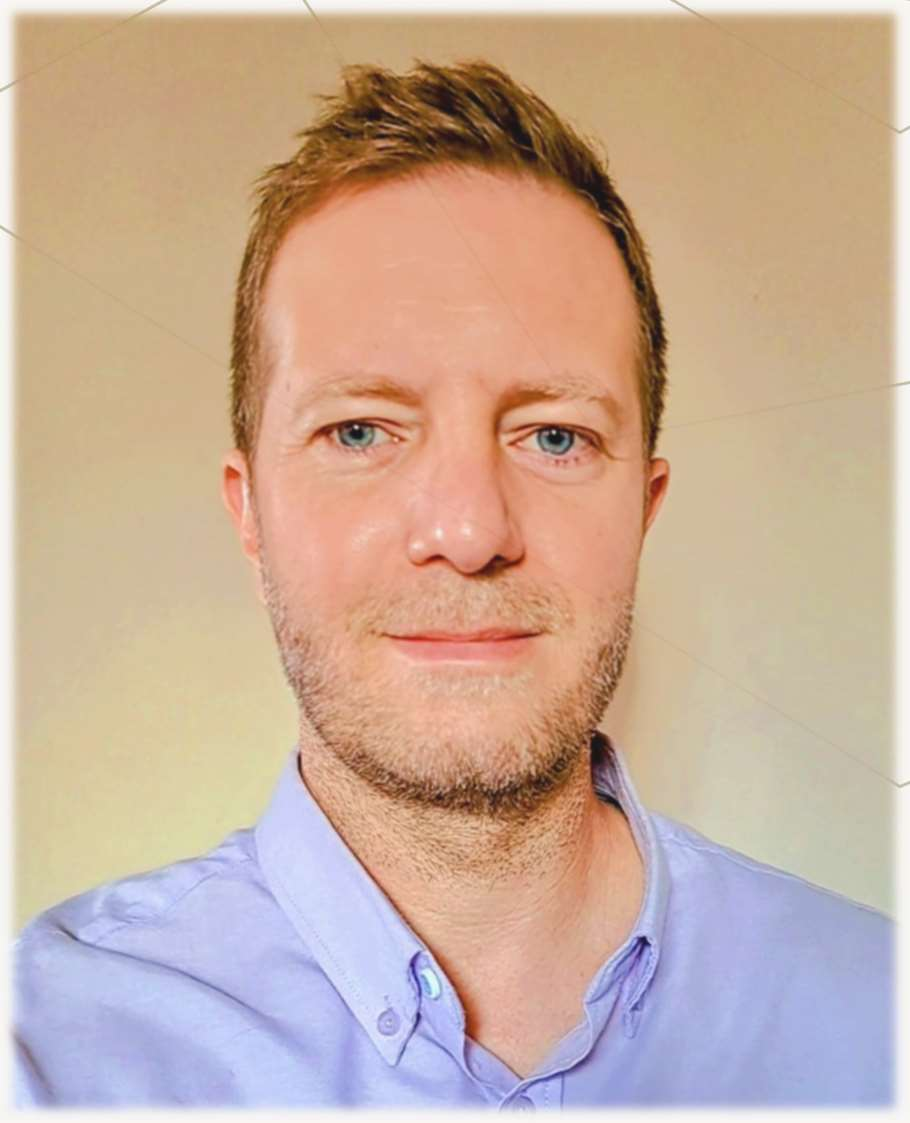
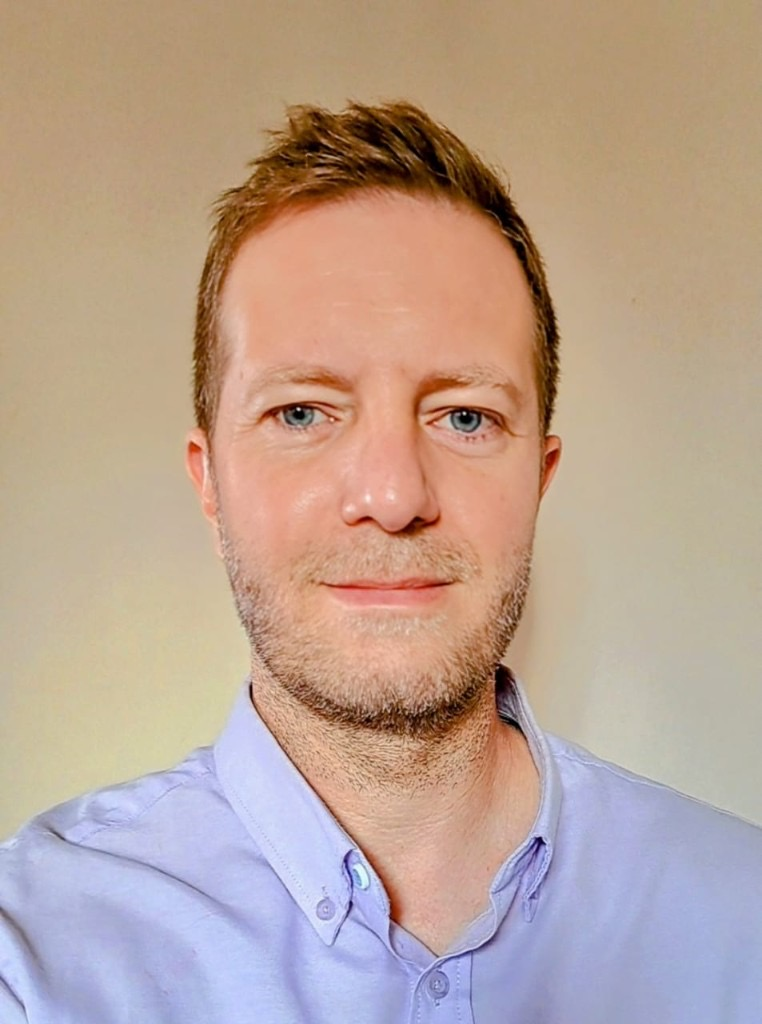
Actualizar perfil público de Renzo Lenarduzzi
La ficha del equipo debía reflejar su trayectoria reciente y una
imagen acorde al resto del sitio. Se incorpora foto nueva y texto
alineado con su CV (Arcor, Delta, proyectos en Angola, formación UTN
y portugués).

- Misma estructura en ES, EN y PT para mantener paridad i18n
- Headshot JPEG sustituido conservando la ruta existente

Changed region(s): [[0.0, 0.0, 1.0, 1.0]]

diff --git a/index.html b/index.html
@@ -401,7 +401,7 @@
         <div class="team-info">
           <h3>Renzo Lenarduzzi</h3>
           <div class="team-role">Equipamiento y Obra</div>
-          <p>15+ años en coordinación de montajes industriales. Experiencia internacional en gestión de líneas de producción, liderazgo de equipos multiculturales y supervisión de instalaciones. Trayectoria en Arcor con proyectos en Argentina y Angola.</p>
+          <p>Más de 15 años coordinando montajes industriales en Ingeniería Corporativa Arcor. Impulsa Delta: soluciones industriales, relevamientos en planta e integración de equipamiento. Proyectos en Argentina y Angola (plantas alimentarias y refinería). Formación en Ingeniería Mecánica (UTN FR Córdoba). Portugués fluido.</p>
         </div>
       </div>
       <div class="team-card reveal">

diff --git a/pt/index.html b/pt/index.html
@@ -401,7 +401,7 @@
         <div class="team-info">
           <h3>Renzo Lenarduzzi</h3>
           <div class="team-role">Equipamentos e Obras</div>
-          <p>15+ anos em coordenação de montagens industriais. Experiência internacional em gestão de linhas de produção, liderança de equipes multiculturais e supervisão de instalações. Trajetória na Arcor com projetos na Argentina e Angola.</p>
+          <p>Mais de 15 anos coordenando montagens industriais na Engenharia Corporativa Arcor. Lidera a Delta: soluções industriais, levantamentos em planta e integração de equipamentos. Projetos na Argentina e Angola (plantas alimentícias e refinaria). Formação em Engenharia Mecânica (UTN FR Córdoba). Português fluente.</p>
         </div>
       </div>
       <div class="team-card reveal">

diff --git a/en/index.html b/en/index.html
@@ -401,7 +401,7 @@
         <div class="team-info">
           <h3>Renzo Lenarduzzi</h3>
           <div class="team-role">Equipment &amp; Construction</div>
-          <p>15+ years coordinating industrial assembly. International experience in production line management, leadership of multicultural teams, and installation supervision. Track record at Arcor with projects in Argentina and Angola.</p>
+          <p>15+ years coordinating industrial assembly at Arcor Corporate Engineering. Leads Delta: industrial solutions, site surveys, and equipment integration. Projects in Argentina and Angola (food plants and oil refinery). Mechanical Engineering studies (UTN Regional Faculty Córdoba). Fluent Portuguese.</p>
         </div>
       </div>
       <div class="team-card reveal">
